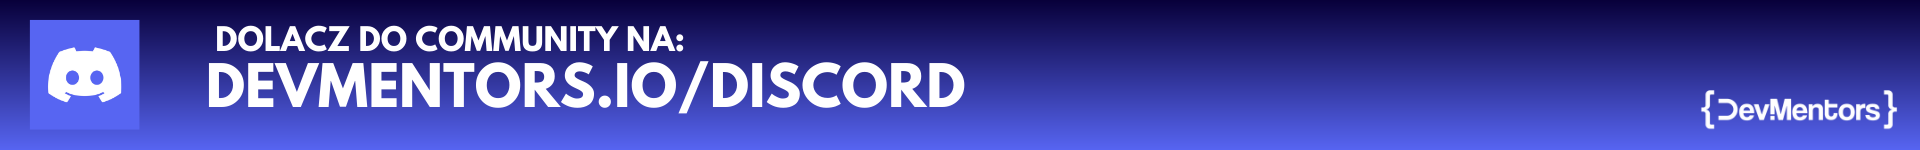
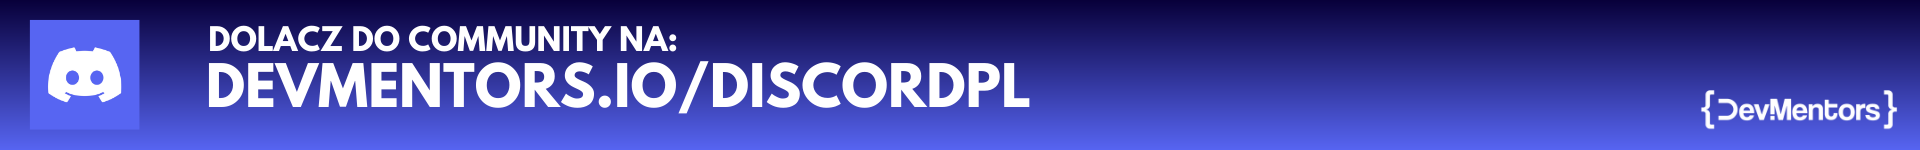
Updated Discord link.

Changed region(s): [[0.0938, 0.16, 0.375, 0.3467], [0.5, 0.4, 0.5625, 0.72]]

diff --git a/README.md b/README.md
@@ -96,4 +96,4 @@ _(2) Identyfikator rezerwacji znajduje sie na rezerwacji, ktora wyszukasz uzywaj
 
 ## Wsparcie
 
-[![discord](./img/discord.png)](https://devmentors.io/discord)
+[![discord](./img/discord.png)](https://devmentors.io/discordpl)
